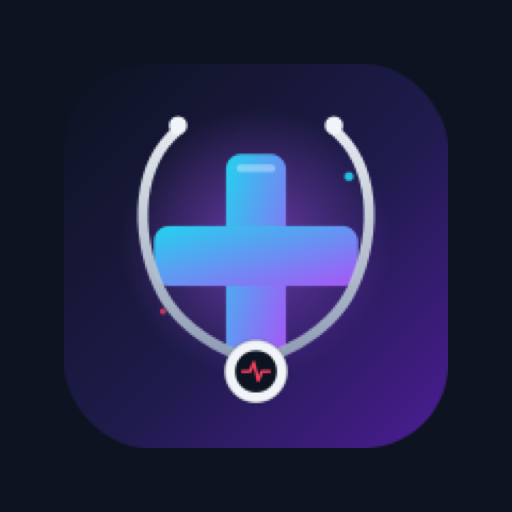
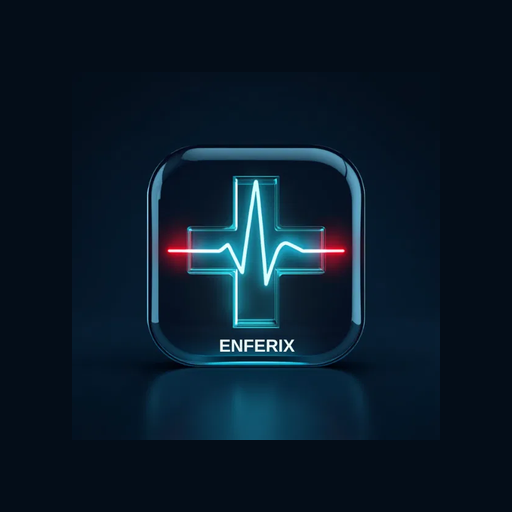
feat: nuevo logotipo de Enferix (cruz + latido) en toda la app
Sustituye el logo antiguo (emoji 🩺 / SVG de fonendo genérico) por el
nuevo icono de marca (cruz médica con línea de latido) en:

- Iconos PWA: icon-192.png, icon-512.png, icon-512-maskable.png
  (con zona segura del ~72% para que el recorte del sistema operativo
  -circular, squircle...- no corte el texto "ENFERIX").
- Favicon y apple-touch-icon: antes venían como base64 gigantes
  incrustados en <head> (~40KB de texto); ahora son ficheros
  estáticos propios (icon-favicon.png, icon-apple-touch.png), lo que
  además reduce index.html.
- Pantalla de carga (splash), logo de cabecera y logo del overlay de
  Javny Voz + Imagen: sustituidos por <img> apuntando al nuevo icono.
  El CSS que da forma/tamaño a esos <img> (44px cabecera, 100px splash,
  38px overlay) ya existía en el repo sin usar; solo hacía falta el
  <img>.

No se toca el emoji 🩺 decorativo del estado vacío del chat de Javny
(no es una marca, es solo un icono ilustrativo).

index.html: 96KB → 68KB (fuera los base64 del favicon).

Verificado con Playwright: cabecera, pantalla de carga y overlay de
Javny muestran el nuevo logo correctamente, sin errores de consola.

diff --git a/public/index.html b/public/index.html
@@ -15,8 +15,8 @@
 <link rel="stylesheet" href="/css/ui-shared/inline-style-15.css">
 <!-- ===== HEAD (PWA + logo nuevo) ===== -->
 <link rel="manifest" href="/manifest.json">
[2 lines of base64/hex data omitted]
+<link id="v17-favicon" rel="icon" type="image/png" href="/icon-favicon.png">
+<link rel="apple-touch-icon" href="/icon-apple-touch.png">
 <meta name="apple-mobile-web-app-capable" content="yes">
 <meta name="apple-mobile-web-app-status-bar-style" content="black-translucent">
 <meta name="apple-mobile-web-app-title" content="Enferix">
@@ -86,17 +86,7 @@
 </head>
 <body data-theme="dark">
 <div id="splash">
-  <div class="splash-logo">
-    <svg viewBox="0 0 100 100" xmlns="http://www.w3.org/2000/svg">
-      <g fill="none" stroke="#fff" stroke-width="5.5" stroke-linecap="round" stroke-linejoin="round">
-        <path d="M30 26 V46 a20 20 0 0 0 40 0 V26"/>
-        <path d="M50 66 V74 a12 12 0 0 0 12 12"/></g>
-      <circle cx="30" cy="24" r="4.6" fill="#fff"/>
-      <circle cx="70" cy="24" r="4.6" fill="#fff"/>
-      <circle cx="62" cy="86" r="9.5" fill="#fff"/>
-      <circle cx="62" cy="86" r="4.6" fill="#7b46c9"/>
-    </svg>
-  </div>
+  <div class="splash-logo"><img src="/icon-512.png" alt="Enferix"></div>
   <div class="splash-title" id="splashTitle">Enferix</div>
   <div class="splash-sub" id="splashSub">Cargando Enferix y 1.676 recursos clínicos…</div>
   <div class="splash-dots"><span></span><span></span><span></span></div>
@@ -105,7 +95,7 @@
 
 <header>
   <div class="top">
-    <div class="logo">🩺</div>
+    <div class="logo"><img src="/icon-512.png" alt="Enferix"></div>
     <h1>Enferix <small>Asistente clínico de enfermería</small></h1>
     <button class="icon-btn" id="shareAllBtn" title="Compartir aplicación">📤</button>
     <button class="icon-btn v28-cima-header" id="vadeBtn" title="Vademécum CIMA-AEMPS">💊</button>
@@ -419,7 +409,7 @@
 <!-- ===== BODY (capa de chat sobre la guía) ===== -->
 <div id="ccWrap" role="dialog" aria-modal="true" aria-label="Javny, asistente clínico">
  <div class="cc-head">
-  <div class="cc-logo"><svg viewBox="0 0 100 100" xmlns="http://www.w3.org/2000/svg"><defs><linearGradient id="lgHJ" x1="0" y1="0" x2="1" y2="1"><stop offset="0" stop-color="#4f46e5"/><stop offset=".55" stop-color="#d946a0"/><stop offset="1" stop-color="#22d3ee"/></linearGradient></defs><rect width="100" height="100" rx="24" fill="url(#lgHJ)"/><g fill="none" stroke="#fff" stroke-width="5.5" stroke-linecap="round" stroke-linejoin="round"><path d="M30 26 V46 a20 20 0 0 0 40 0 V26"/><path d="M50 66 V74 a12 12 0 0 0 12 12"/></g><circle cx="30" cy="24" r="4.6" fill="#fff"/><circle cx="70" cy="24" r="4.6" fill="#fff"/><circle cx="62" cy="86" r="9.5" fill="#fff"/><circle cx="62" cy="86" r="4.6" fill="#7b46c9"/></svg></div>
+  <div class="cc-logo"><img src="/icon-512.png" alt="Enferix"></div>
   <div class="cc-brand"><h1>Javny</h1><p>Javny Voz + Imagen <span id="v20Conn" class="v20-conn local">Modo local</span></p></div>
   <button class="cc-hbtn guide" id="ccGuide" title="Ver la guía completa">📚 Guía</button>
   <button class="cc-hbtn v26-live-chat-btn" id="v26LiveChatBtn" title="Iniciar Javny Live">🔴 LIVE</button>
